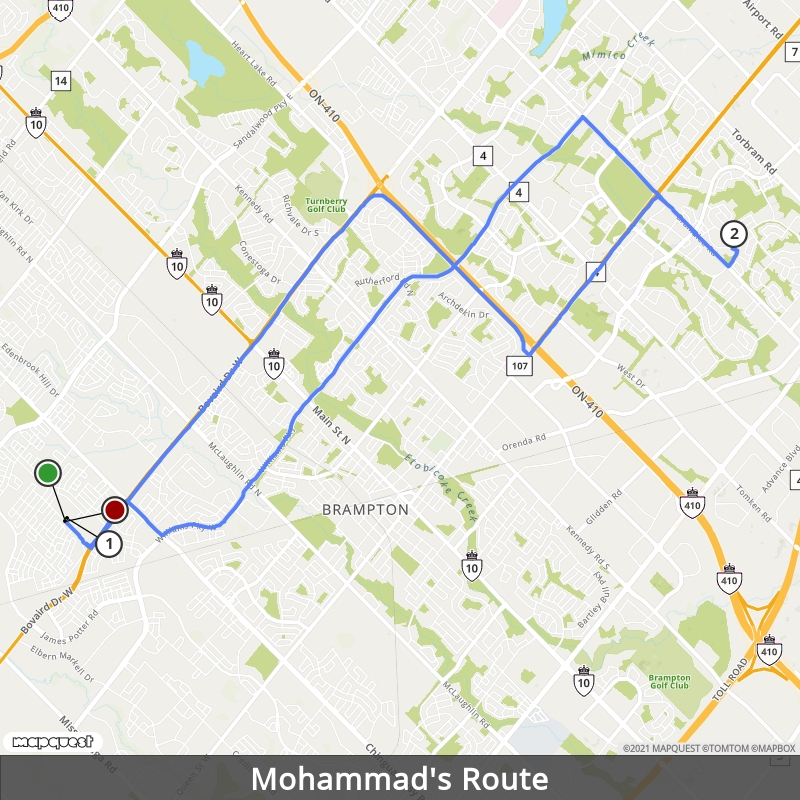
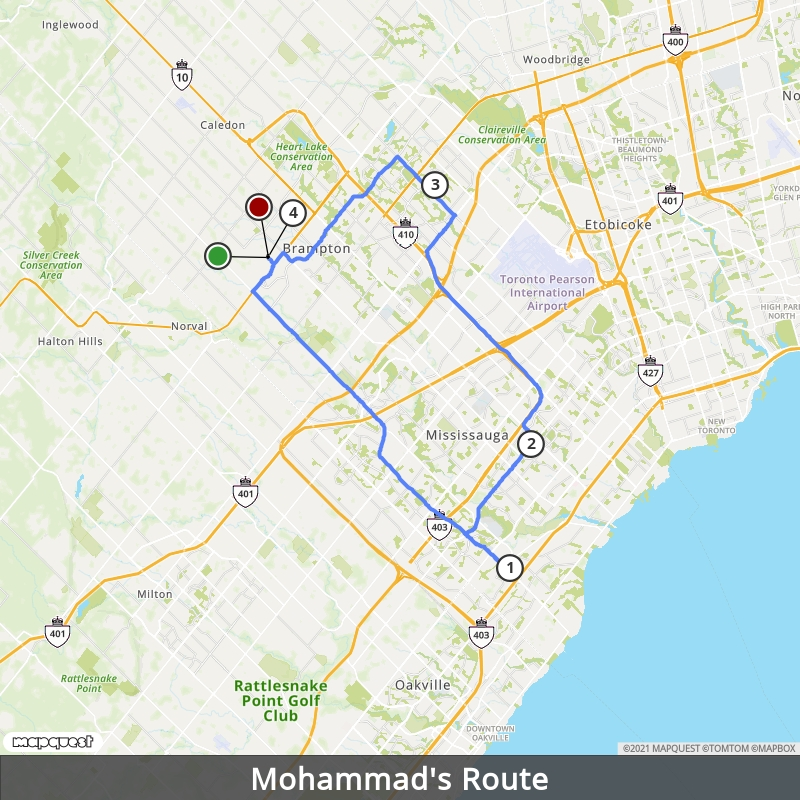
Update routes - include sauga

diff --git a/osp/out/info.js b/osp/out/info.js
@@ -1,1 +1,1 @@
-var route_info = [{"name": "Hufsah Khan", "map": "out/Hufsah_Khan.png", "sequence": ["1051 Wallbrook Crescent, Milton", "1380 Costigan Road, Milton"], "details": ["XL / Maroon", "Unit 88, S / White"], "units": ["1.0", "1.0"], "names": ["Jana Alborno", "Arham Hasan"], "phones": ["647-767-6965", "289-400-6393"], "time": "1772"}, {"name": "Ameer Qamar", "map": "out/Ameer_Qamar.png", "sequence": ["28 Mericourt Road, Hamilton", "35 Gisele Drive, Hamilton"], "details": ["L / Navy", "XL / Maroon, XL / Navy"], "units": ["1.0", "2.0"], "names": ["Nazmus Sadat", "Fatima Noor"], "phones": ["289-788-7943", "1-289-925-1282"], "time": "7337"}, {"name": "Mohammad Ali", "map": "out/Mohammad_Ali.png", "sequence": ["60 Grovewood Drive, Brampton", "677 Balmoral Drive, Brampton"], "details": ["M / Navy", "L / Maroon"], "units": ["1.0", "1.0"], "names": ["Mohammad Ali", "Samar Riaz"], "phones": ["1-647-787-4894", "647-617-5758"], "time": "2198"}, {"name": "Basma Hamodi", "map": "out/Basma_Hamodi.png", "sequence": ["345 King Street North, Waterloo"], "details": ["Unit 507, M / Maroon"], "units": ["1.0"], "names": ["Mahdin Ahmed"], "phones": ["647-554-7510"], "time": "812"}];
+var route_info = [{"name": "Hufsah Khan", "map": "out/Hufsah_Khan.png", "sequence": ["1051 Wallbrook Crescent, Milton", "1380 Costigan Road, Milton"], "details": ["XL / Maroon", "Unit 88, S / White"], "units": ["1.0", "1.0"], "names": ["Jana Alborno", "Arham Hasan"], "phones": ["647-767-6965", "289-400-6393"], "time": "1815"}, {"name": "Ameer Qamar", "map": "out/Ameer_Qamar.png", "sequence": ["28 Mericourt Road, Hamilton", "35 Gisele Drive, Hamilton"], "details": ["L / Navy", "XL / Maroon, XL / Navy"], "units": ["1.0", "2.0"], "names": ["Nazmus Sadat", "Fatima Noor"], "phones": ["289-788-7943", "1-289-925-1282"], "time": "7337"}, {"name": "Mohammad Ali", "map": "out/Mohammad_Ali.png", "sequence": ["1970 Fowler Drive, Mississauga", "285 Enfield Place, Mississauga", "677 Balmoral Drive, Brampton", "60 Grovewood Drive, Brampton"], "details": ["Unit 1212, L / Navy, Custom Name - XXL / Navy", "Unit 1810, Custom Name - M / Navy", "L / Maroon", "M / Navy"], "units": ["2.0", "1.0", "1.0", "1.0"], "names": ["Nour Elgawish", "Qamar Mobayed", "Samar Riaz", "Mohammad Ali"], "phones": ["647-677-2746", "647-641-2214", "647-617-5758", "1-647-787-4894"], "time": "4608"}, {"name": "Basma Hamodi", "map": "out/Basma_Hamodi.png", "sequence": ["345 King Street North, Waterloo"], "details": ["Unit 507, M / Maroon"], "units": ["1.0"], "names": ["Mahdin Ahmed"], "phones": ["647-554-7510"], "time": "812"}];

diff --git a/osp/index.html b/osp/index.html
@@ -34,7 +34,7 @@
             <div id="RouteLinks" class="text-center d-flex flex-column align-items-center justify-content-center"></div>
             <h2 class="mt-2">Overview</h2>
             <div>
-                <strong>Note: </strong>5 addresses were skipped: 2 in Oshawa, 2 in Mississauga, and 1 in Toronto
+                <strong>Note: </strong>3 addresses were skipped: 2 in Oshawa and 1 in Toronto
             </div>
             <table class="table table-bordered mt-2">
                 <thead>
